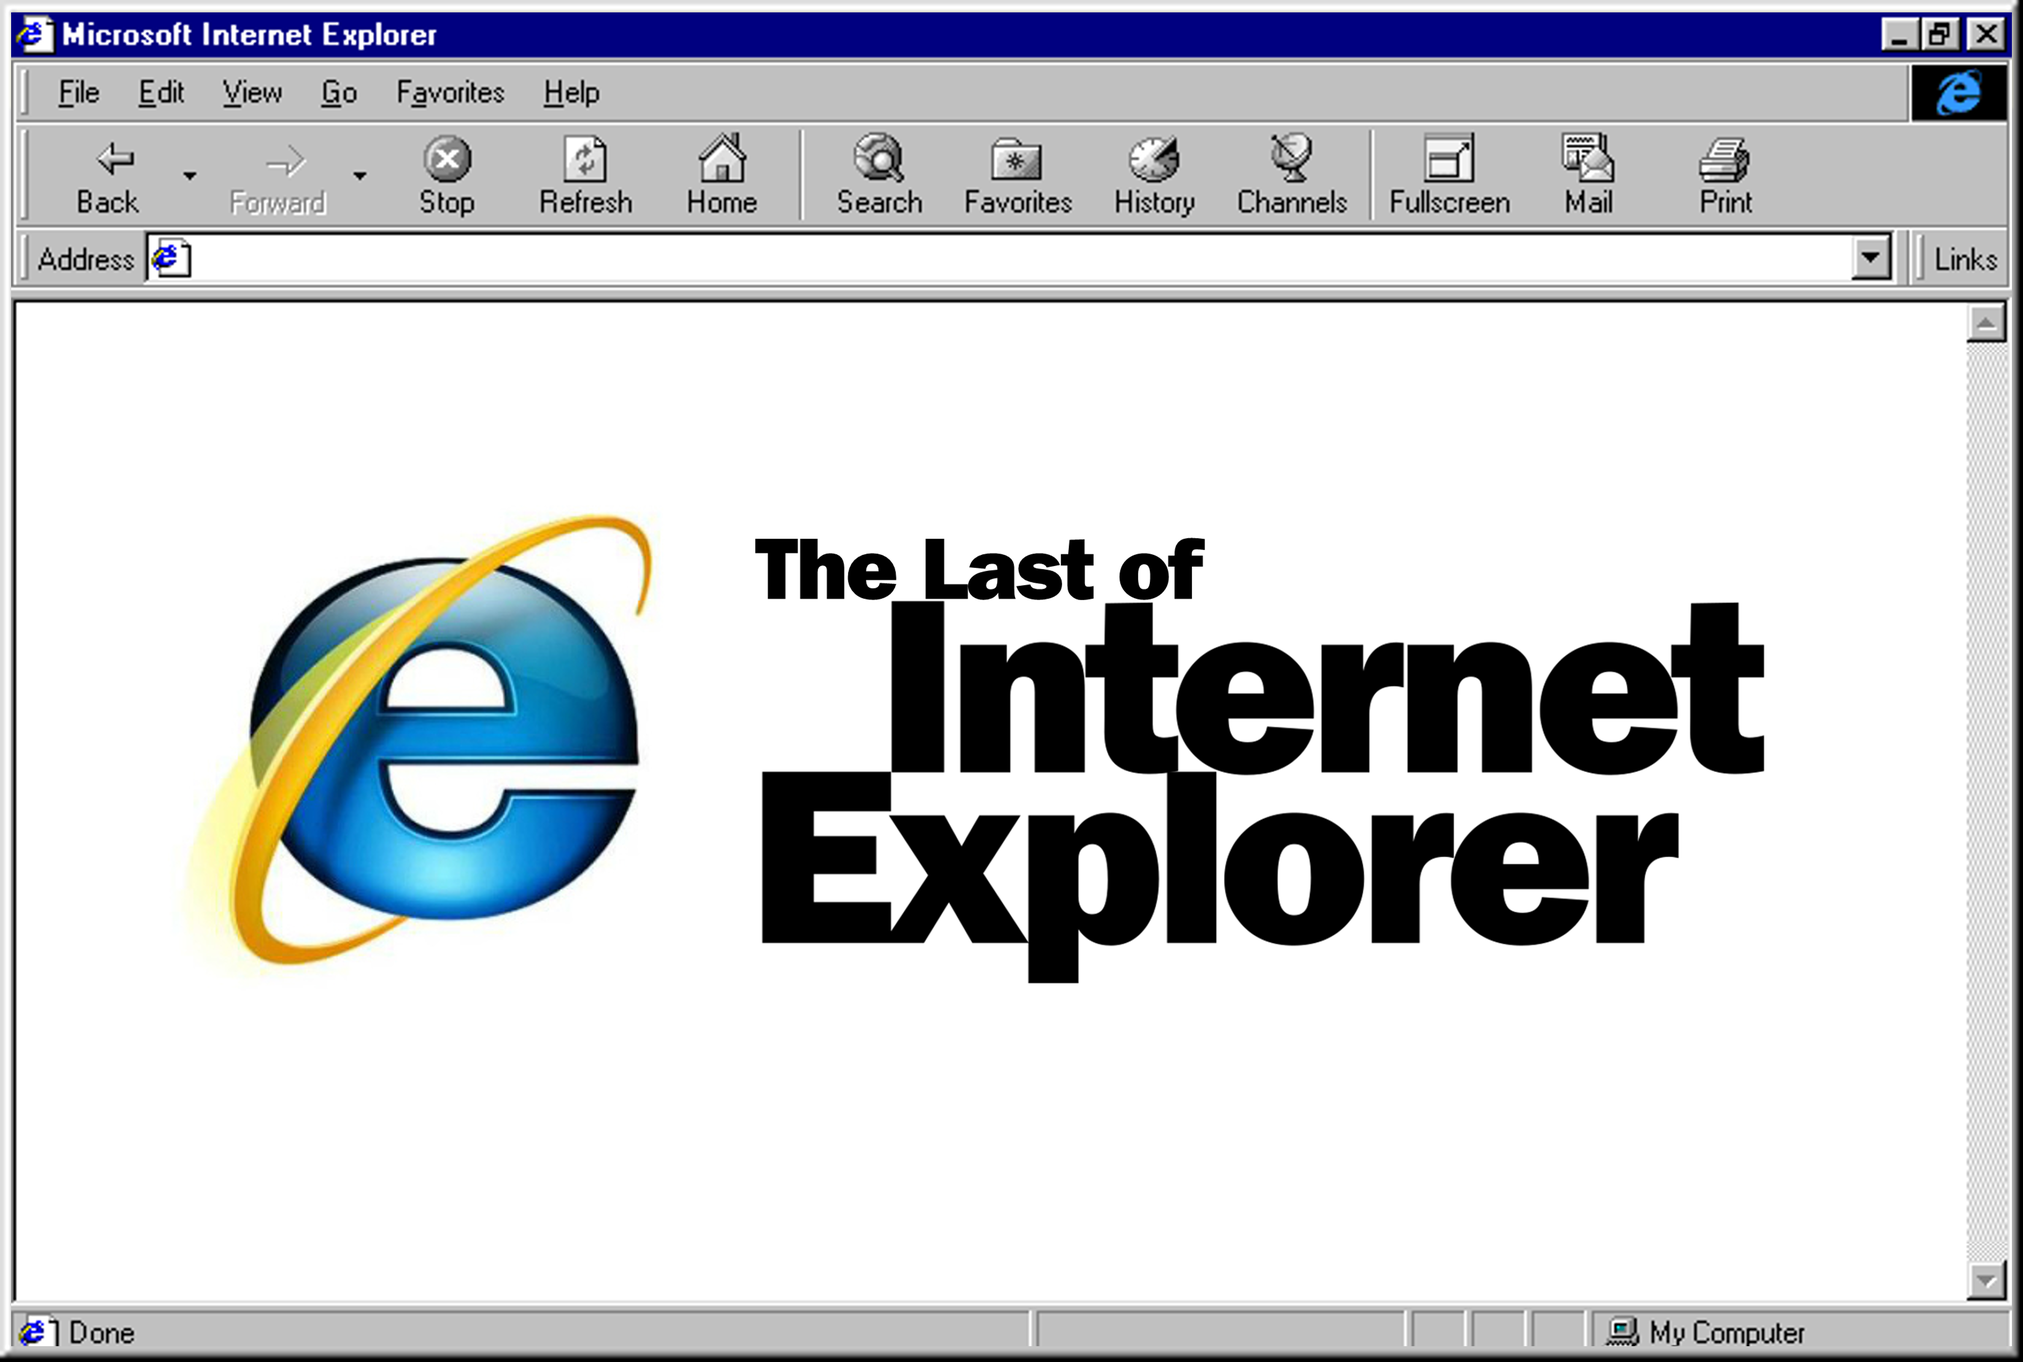
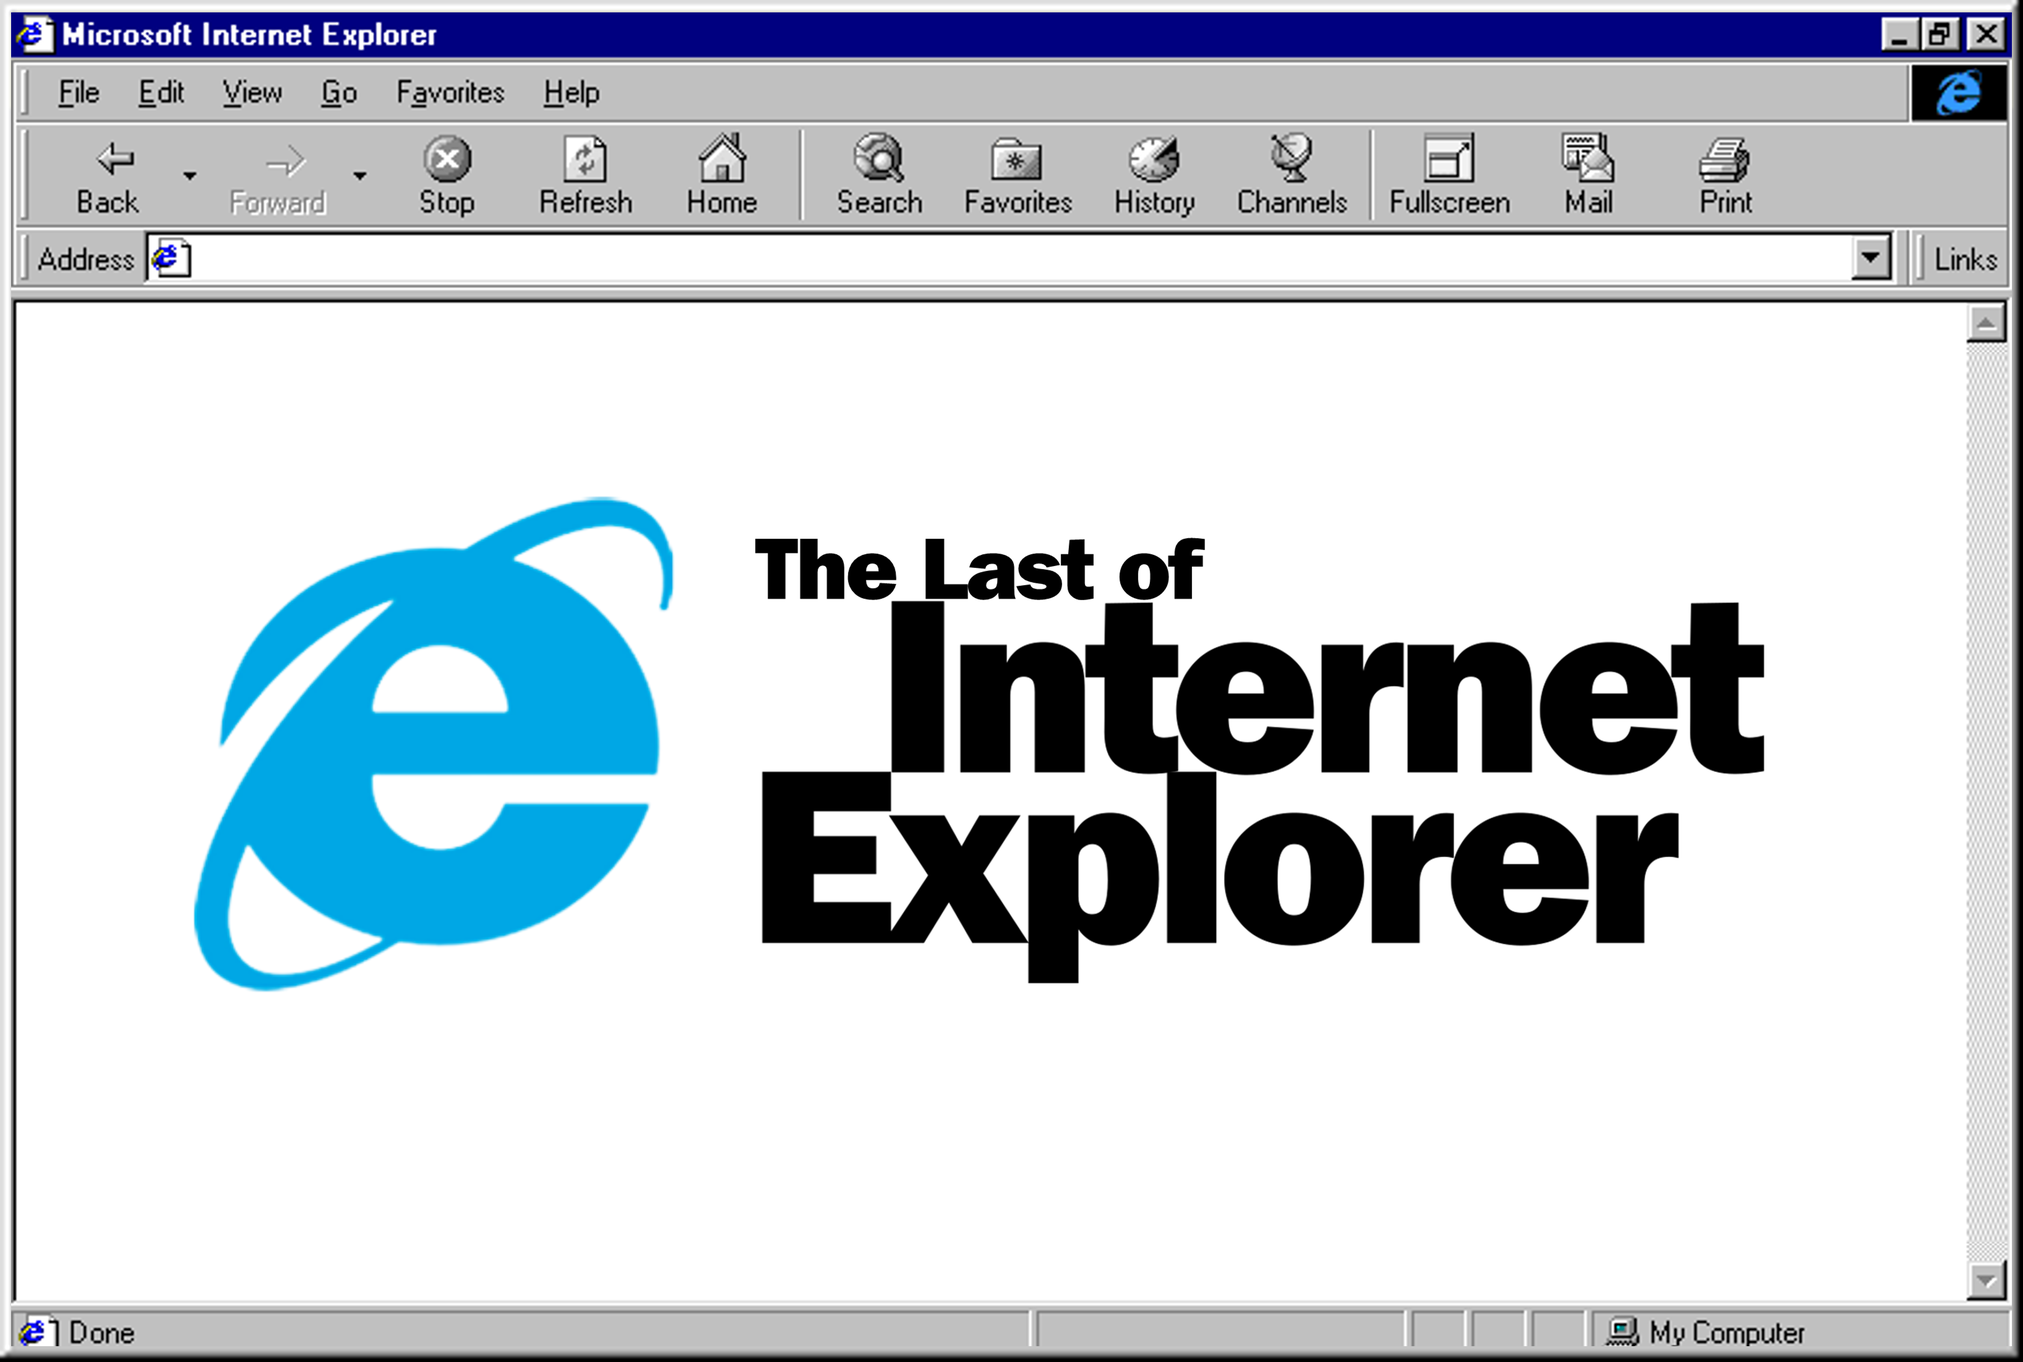
Article08 was modified. (221129)

Changed region(s): [[0.0933, 0.342, 0.3419, 0.7462]]

diff --git a/src/components/articles/Article03/Article03.tsx b/src/components/articles/Article03/Article03.tsx
@@ -1,0 +1,86 @@
+import HeaderBottom from '../../header/HeaderBottom';
+
+import articleStyles from '../ArticleStyle.module.css';
+
+const title: string = "Invisible but Powerful Cloud Computing";
+
+export default function Article03() {
+    return (
+        <div>
+            <HeaderBottom title={title} />
+
+            <div className={articleStyles.paragraph}>
+                In the 21st century, information technology is growing at a faster pace than ever. We are currently living in an “information society”. Computer technologies not only have a great impact on science, but also on our daily lives. As the times change, the need for technicians and high-performance equipment that can handle this information is also increasing. Large corporations may not have much difficulty meeting these conditions, but for individuals or small start-ups the difficulty is real. Due to tight budgets, it’s very difficult to hire technicians and purchase expensive equipment and most small businesses are unable to do so. In this situation, cloud computing could be a very good solution.
+            </div>
+
+            <div className={articleStyles.paragraph}>
+                Cloud computing technology is a very important item and a core technology for IT industries. Amazon.com started as an Internet shopping mall. They had built many servers to prepare for large events such as Black Friday sales. In 2006, they started a storage service with the idea that servers remain unused after big events. Later they launched Amazon Web Services(AWS) and expanded service categories to machine learning, security, IoT(Internet of Things), networks, databases, and more, becoming number one in the global market. Microsoft, which dominated computer operating systems and the office software market with Windows and Office, also launched their cloud service, Microsoft Azure. Currently, Microsoft Azure’s sales have already surpassed Window’s sales, making it their flagship business. Google, the biggest search engine company in the world, introduced Google Cloud Platform, and has become a new business that leads Google’s sales. In Korea, Naver launched Naver Cloud Platform in 2017, and Korea’s corporations are using their service. Naver is establishing data centers not only in Korea, but in the United States, Japan, Singapore, and Europe. Not only those companies but, IBM and Oracle are also making huge sales in cloud computing.
+            </div>
+
+
+
+            <div className={articleStyles.subtitle}>
+                How Does it Work?
+            </div>
+
+            <div className={articleStyles.paragraph}>
+                Cloud computing is a technology that does not need a personal computer’s resources and can be used wherever and whenever you want. The reason why it’s called “cloud” computing is that the cloud can’t be seen in reality, but in this cloud, the computer is communicating with servers and processing data. You have to connect your own computer to the cloud through a network, to communicate with another computer. Your computer only deals with input and output tasks. Complicated information processing, storage management, and data distribution tasks are being performed in the cloud. Therefore, all data and computation resources only exist in the cloud servers.
+            </div>
+
+
+
+            <div className={articleStyles.subtitle}>
+                Pros and Cons
+            </div>
+
+            <div className={articleStyles.paragraph}>
+                Why are so many people using cloud computing? First of all, the biggest advantage is that you can quickly construct the program infrastructure at a low cost. Also, because of the fact that users only own their personal computers and are accessing the cloud through the internet, it’s possible to build the same user interface anywhere. Another characteristic is that the system is easy to handle because it automatically expands and reduces the size of infrastructure according to server traffic. This algorithm is called ‘auto scaling’, which makes it much easier for technicians to manage the system. However, there are not only advantages to cloud computing. If the cloud service providers do not manage it properly, there may be accidents in which data stored in the data center may disappear or be leaked out to the public. A famous example is Japan’s First Server accident. In order to fix bugs and errors in their service, they were conducting a large software update. As a result, 5,698 customers’ data information was lost and the company in the end failed to recover all that data. This case shows that it’s too dangerous to manage data only with a single cloud computing service.
+            </div>
+
+
+
+            <div className={articleStyles.subtitle}>
+                Which Clouds to Use(Cloud Service Models)
+            </div>
+
+            <div className={articleStyles.paragraph}>
+                There are three types of services in cloud computing, IaaS(Infrastructure as a Service), PaaS(Platform as a Service), SaaS(Software as a Service). As the name indicates, IaaS is a method of only providing the basic infrastructure, which are the physical resources. Only servers, storage, networks, and virtualization services are provided. The rest must be managed by the user. Simply put, it is almost the same as purchasing new computer hardware. Clients only need to pay as much as they use these physical resources. AWS is the most well-known IaaS service provider. SaaS is the service where the cloud service provides software with all the needed functions. In other words, all services are provided if you pay. Dropbox, Google Drive, and Office 365 are good examples of SaaS. PaaS is a little bit ambiguous to define, but it would be easy to think of it as a service between IaaS and SaaS. PaaS is mostly used by program developers. It’s an environment for developing executable computer programs. I know that you might be embarrassed not understanding this terminology, so let me explain with an easy-to-understand example.
+            </div>
+
+            <div className={articleStyles.paragraph}>
+                Let’s say you got hungry and decided to have pizza for dinner. Assume that there are seven steps to make a pizza. IaaS can be seen as cooking pizza for yourself. For your pizza, you need to prepare the ingredients and then cook your pizza in their kitchen. In this situation, the oven and cooking utensils(e.g. spoons, can opener, peeler and more) available in the kitchen play the same role as the physical resources(networks, servers, storages) mentioned for IaaS. PaaS is cooking prepackaged pizza. Inside the package, there is pizza dough, cheese, and tomato sauce for you to combine. The difference between cooking by yourself and a prepackaged pizza is that the ingredients and pizza dough are already prepared. You don’t have to cut vegetables, shred cheese, make pizza dough, and all of the prep work. Putting pizza toppings on the pizza dough can be seen as engineers building their own software on a provided platform. SaaS would be easy to think of as pizza delivery. Like SaaS, the pizza restaurant does everything for you if you pay. Just as cooking prepackaged pizza is in between making pizza for yourself and ordering pizza from delivery, PaaS offers a service between IaaS and SaaS. I hope this helped you understand the differences in the cloud models, and I will continue explaining about cloud computing.
+            </div>
+
+
+
+            <div className={articleStyles.subtitle}>
+                How to Use Cloud(Deployment Models)
+            </div>
+
+            <div className={articleStyles.paragraph}>
+
+            </div>
+
+
+
+            <div className={articleStyles.subtitle}>
+                Cloud Computing Technology for the General Public
+            </div>
+
+            <div className={articleStyles.paragraph}>
+                1. Cloud Gaming
+                Cloud gaming is a service in which games are operated on cloud servers through streaming services. These games can be played on personal devices such as PCs and smartphones, but not on consoles. The point is that you can enjoy many games by paying a monthly subscription fee without purchasing expensive consoles and game disks. Microsoft, the founder of Xbox, launched Xbox Game Pass. If you pay only 11,800 won per month, you can play almost all their game titles without an Xbox console.
+            </div>
+
+            <div className={articleStyles.paragraph}>
+                2. Cloud Storage
+                The cloud storage service, which is widely used by students, is also a type of cloud computing service. It’s technology that will store my files or information on the cloud’s server and I can bring them up when I need to. You can upload document files to storage services such as Dropbox and download them from other computers. Also, you can edit or print files without downloading them.
+            </div>
+
+            <div className={articleStyles.paragraph}>
+                3. Answer Engine
+                Wolfram Alpha, which engineering students may have seen at least once, is also operated by cloud computing technology. You can ask it many things, from simple calculations to complex differential equations. When input is received, Wolfram Alpha performs a computational process in the cloud and provides an answer to the questioner.
+            </div>
+        </div>
+    )
+}

diff --git a/src/components/articles/Article08/Article08.tsx b/src/components/articles/Article08/Article08.tsx
@@ -1,5 +1,4 @@
 import HeaderBottom from '../../header/HeaderBottom';
-import Article08Title from './Article08Title';
 
 import { ResponsiveBar } from '@nivo/bar';
 import { ResponsiveLine } from '@nivo/line';
@@ -132,7 +131,19 @@ export default function Article08() {
         <div>
             <HeaderBottom title={title} />
 
-            <Article08Title />
+            <div className={styles.titleContainer}>
+                <img alt="Article Title" className={styles.image1} src={process.env.PUBLIC_URL + "/articles/08/1.png"} />
+
+                <img alt="Article Title" className={styles.image2} src={process.env.PUBLIC_URL + "/articles/08/2.png"} />
+
+                <div className={styles.writer}>
+                    Written by Kim Young-Woo
+                </div>
+
+                <div className={styles.reviser}>
+                    Revised by Prof. Neil Alexander Cole
+                </div>
+            </div>
 
 
 
@@ -140,7 +151,7 @@ export default function Article08() {
                 <div>
                     <img alt="Image" className={styles.image3} src={process.env.PUBLIC_URL + "/articles/08/3.jpg"} />
 
-                    <div style={{marginTop: "20px", marginBottom: "50px", color: "rgb(150, 150, 150)", textAlign: "left"}}>
+                    <div style={{ marginTop: "20px", marginBottom: "50px", color: "rgb(150, 150, 150)", textAlign: "left" }}>
                         (Source) Reuters, www.reuters.com
                     </div>
                 </div>
@@ -167,7 +178,7 @@ export default function Article08() {
                 <Chart1 />
             </div>
 
-            <div style={{marginTop: "20px", marginBottom: "50px", color: "rgb(150, 150, 150)", textAlign: "center"}}>
+            <div style={{ marginTop: "20px", marginBottom: "50px", color: "rgb(150, 150, 150)", textAlign: "center" }}>
                 (Source) gs.statcounter.com
             </div>
 
@@ -175,7 +186,7 @@ export default function Article08() {
                 <Chart2 />
             </div>
 
-            <div style={{marginTop: "20px", marginBottom: "50px", color: "rgb(150, 150, 150)", textAlign: "center"}}>
+            <div style={{ marginTop: "20px", marginBottom: "50px", color: "rgb(150, 150, 150)", textAlign: "center" }}>
                 (Source) gs.statcounter.com, netmarketshare.com/browser-market.share.aspx
             </div>
 
@@ -191,7 +202,7 @@ export default function Article08() {
 
             <img alt="Image" className={styles.image4} src={process.env.PUBLIC_URL + "/articles/08/4.png"} />
 
-            <div style={{marginTop: "20px", marginBottom: "50px", color: "rgb(150, 150, 150)", textAlign: "center"}}>
+            <div style={{ marginTop: "20px", marginBottom: "50px", color: "rgb(150, 150, 150)", textAlign: "center" }}>
                 (Source) Wikipedia, en.wikipedia.org/wiki/ActiveX
             </div>
 
@@ -208,18 +219,18 @@ export default function Article08() {
             <div className={styles.image5Container}>
                 <img alt="Image" className={styles.image51} src={process.env.PUBLIC_URL + "/articles/08/6.png"} />
 
-                <div style={{fontSize: "2rem"}}>
+                <div style={{ fontSize: "2rem" }}>
                     vs.
                 </div>
 
                 <img alt="Image" className={styles.image52} src={process.env.PUBLIC_URL + "/articles/08/5.png"} />
             </div>
 
-            <div style={{color: "rgb(150, 150, 150)", textAlign: "center"}}>
+            <div style={{ color: "rgb(150, 150, 150)", textAlign: "center" }}>
                 (Source) Logos Download, logos-download.com
             </div>
 
-            <div style={{marginBottom: "50px", color: "rgb(150, 150, 150)", textAlign: "center"}}>
+            <div style={{ marginBottom: "50px", color: "rgb(150, 150, 150)", textAlign: "center" }}>
                 (Source) Wikipedia, en.wikipedia.org/wiki/JavaScript
             </div>
 

diff --git a/src/components/archive/Archive.tsx b/src/components/archive/Archive.tsx
@@ -10,7 +10,7 @@ export default function Archive() {
         <div className={styles.buttonContainer}>
             {/* <Button id={articles[0].id} section={articles[0].section} title={articles[0].title} year={articles[0].year} month={articles[0].month} /> */}
             {/* <Button id={articles[1].id} section={articles[1].section} title={articles[1].title} year={articles[1].year} month={articles[1].month} /> */}
-            {/* <Button id={articles[2].id} section={articles[2].section} title={articles[2].title} year={articles[2].year} month={articles[2].month} /> */}
+            <Button id={articles[2].id} section={articles[2].section} title={articles[2].title} year={articles[2].year} month={articles[2].month} />
             {/* <Button id={articles[3].id} section={articles[3].section} title={articles[3].title} year={articles[3].year} month={articles[3].month} /> */}
             {/* <Button id={articles[4].id} section={articles[4].section} title={articles[4].title} year={articles[4].year} month={articles[4].month} /> */}
             {/* <Button id={articles[5].id} section={articles[5].section} title={articles[5].title} year={articles[5].year} month={articles[5].month} /> */}

diff --git a/src/components/articles/Article08/Article08.module.css b/src/components/articles/Article08/Article08.module.css
@@ -1,7 +1,7 @@
 .titleContainer {
     width: 100vw;
     height: 500px;
-    background-color: rgb(30, 187, 238);
+    background-color: rgb(0, 167, 229);
     margin-bottom: 50px;
 }
 
@@ -90,8 +90,37 @@
 
 
 @media screen and (max-width: 1000px) {
+    .titleContainer {
+        width: 100vw;
+        height: 60vw;
+    }
+
+    .image1 {
+        width: 70vw;
+        top: calc(140px + 5vw);
+        left: 15vw;
+    }
+
+    .image2 {
+        width: 50vw;
+        top: calc(140px + 40vw);
+        left: 40vw;
+    }
+
     .image3 {
         width: 90vw;
+    }
+
+    .writer {
+        font-size: 2vw;
+        top: calc(140px + 45vw);
+        left: calc(40vw + 30px);
+    }
+    
+    .reviser {
+        font-size: 2vw;
+        top: calc(140px + 49vw);
+        left: calc(40vw + 30px);
     }
 
     .introductionContainer {

diff --git a/src/App.tsx b/src/App.tsx
@@ -9,6 +9,7 @@ import HeaderTop from './components/header/HeaderTop';
 import Footer from './components/footer/Footer';
 import NotFound from './components/notFound/NotFound';
 
+import Article03 from './components/articles/Article03/Article03';
 import Article08 from './components/articles/Article08/Article08';
 
 import './App.css';
@@ -28,6 +29,7 @@ function App() {
                     <Route path="/archive" element={<Archive />} />
                     <Route path="/achievements" element={<Achievements />} />
                     {/* <Route path="/aboutme" element={<AboutMe />} /> */}
+                    <Route path="/article/3" element={<Article03 />} />
                     <Route path="/article/8" element={<Article08 />} />
 
                     <Route path="*" element={<NotFound />} />

diff --git a/src/components/archive/Button.tsx b/src/components/archive/Button.tsx
@@ -56,9 +56,7 @@ function MonthTranslator(month: number) {
 export default function Button(props: ButtonProps) {
     return (
         <Link to={"/article/" + String(props.id)} className={styles.button}>
-            <div className={styles.buttonImage}>
-
-            </div>
+            <img alt="Image" className={styles.buttonImage} src={process.env.PUBLIC_URL + "/articles/" + props.id + ".png"} />
 
             <div className={styles.buttonInfo}>
                 <div className={styles.title}>

diff --git a/src/components/archive/Button.module.css b/src/components/archive/Button.module.css
@@ -15,8 +15,21 @@
     background-color: rgb(230, 230, 230);
 }
 
+.button:hover {
+    transform: scale(1.15);
+}
+
+.button:hover > .buttonInfo {
+    background-color: rgb(0, 0, 0);
+}
+.button:hover > .buttonInfo > .title {
+    color: rgb(255, 255, 255);
+}
+
 .buttonInfo {
     padding: 20px;
+    background-color: rgb(255, 255, 255);
+    border-radius: 0px 0px 10px 10px;
 }
 
 .title {
